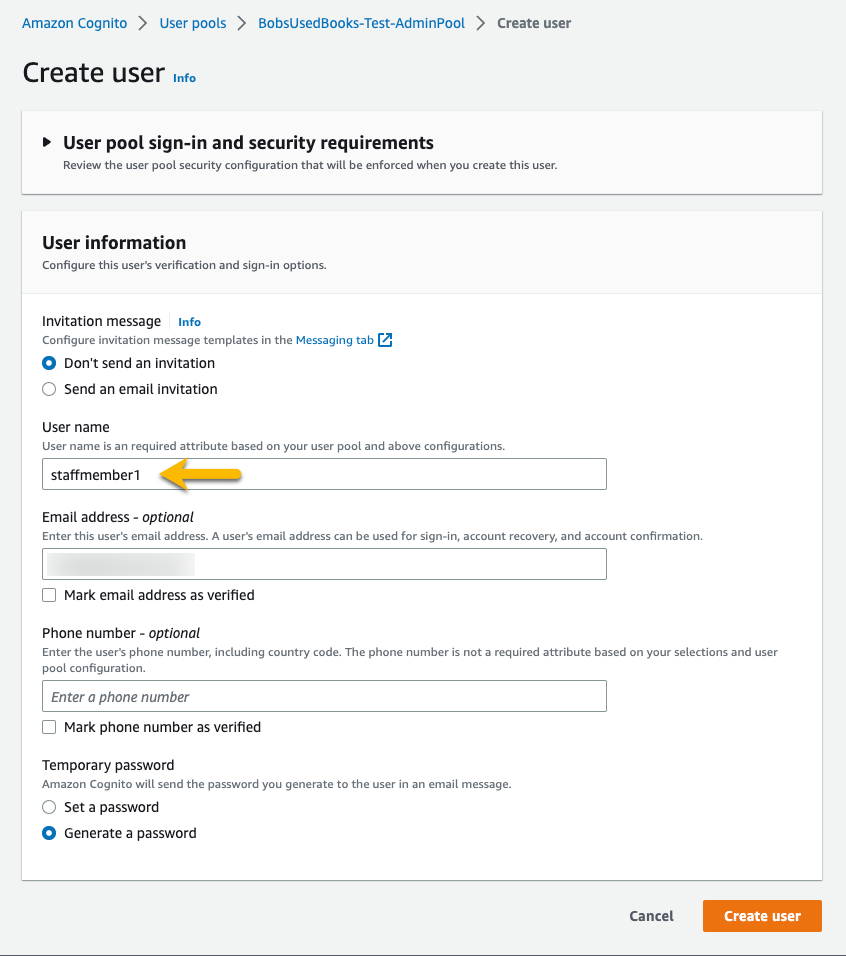
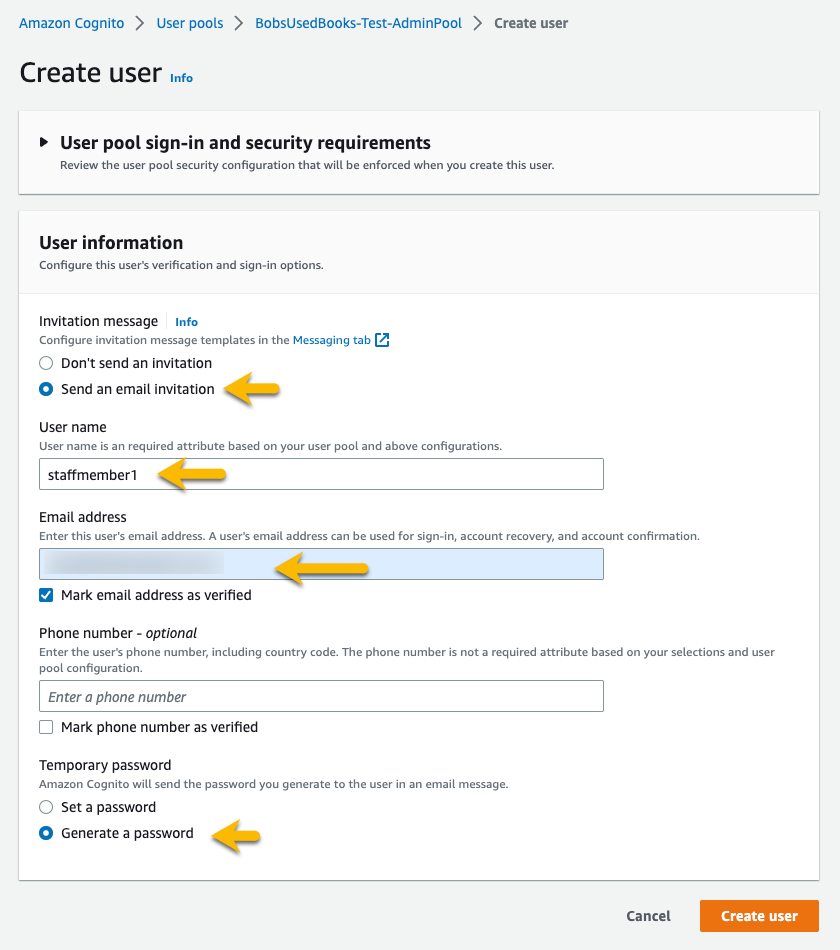
Expanded on sign-in instructions for admin site user

diff --git a/README.md b/README.md
@@ -68,9 +68,9 @@ Once the CDK deployment has completed:
 
 In integrated mode, both applications use Amazon Cognito user pools for user authentication.
 
-For the admin site you will need to create a user, representing bookstore staff, in the user pool for the admin site, as follows.
+For the admin site you will need to create a user, representing bookstore staff, in the user pool for the admin site. When creating the fictional staff user, you can elect to have a temporary password auto-generated for you, and an email sent to a valid email address with the password. Alternatively, you can choose to not have an email sent, and set the temporary password yourself. Either way, on first login to the admin application, you will be asked to change the temporary password.
 
-**Note:** screenshots in the text below are taken from the new Cognito console experience. If you are running the older experience you may encounter some differences, however the instructional flow holds true.
+**Note:** The instructions below set the Create User options to (a) have the password emailed to a real email address, and (b) have the password be auto-generated. The screenshots are taken from the new Cognito console experience. If you are running the older experience you may encounter some differences, however the instructional flow holds true.
 
 1. Sign into the AWS Management Console and proceed to the Amazon Cognito dashboard.
 
@@ -86,9 +86,11 @@ For the admin site you will need to create a user, representing bookstore staff,
 
 1. Select **Create user**
 
-1. Complete the User name and Email address fields. You can also mark the email as verified for this sample. You can set a password yourself, or have a temporary password generated which you will be prompted to change on login.
+1. Select the **Send an email invitation** option. Be sure to enter a real email address later! Alternatively, you can leave this option at "do not email" and set a temporary password yourself later on the form.
 
-    **Note:** As the password will be auto-generated and mailed to the user, **be sure to use a real email address to which you have access**!
+1. Complete the User name and Email address fields. You can also mark the email as verified for this sample. Whether you auto-generate the password (and have it emailed), or set a temporary password, you will be asked to change it on first login to the admin application.
+
+    **Note:** For auto-generated passwords, be sure to set the options to have it emailed to you and **be sure to use a real email address to which you have access**!
 
     ![Set user details](./media/cognito-admin-user.png)
 
@@ -102,7 +104,15 @@ For the admin site you will need to create a user, representing bookstore staff,
 
 1. Sign in using the username and password you just created.
 
-You can now access features in the admin application as if you were a staff member of the bookstore, for example to process customer orders, maintain stock, and more.
+    ![Initial sign-in](./media/admin_app_sign-in.png)
+
+1. Because you signed in with a temporary password you are prompted to update it.
+
+    ![Change password](./media/admin_app_sign-in_password_update.png)
+
+You are then signed into the application and placed at the _Orders_ view. You can now access features in the admin application as if you were a staff member of the bookstore, for example to process customer orders, maintain stock, and more.
+
+![Order view in Admin app](./media/admin_app_post_sign-in.png)
 
 **Note:** In the customer application, end-users register themselves so as to be more similar to a real-world shopping experience. The process starts using the _Log in_ option on the customer application's toolbar.
 
@@ -112,7 +122,7 @@ Although minimal resources are created to support the _Integrated_ launch profil
 
 To delete resources, either:
 
-1. Navigate to the CloudFormation dashboard in the AWS Management Console, select the stack, and delete it.
+1. Navigate to the CloudFormation dashboard in the AWS Management Console, select the _BobsUsedBooksIntegratedTest_ stack, and delete it.
 
 1. Or, in a command-line shell, set the working folder to be the _infrastructure/IntegratedTest_ folder of the repository and run the command `cdk destroy`. If you supplied `--profile` and/or `--region` parameters to the CDK when instantiating the stack, be sure to provide the same ones on deletion, otherwise the CDK command will error out complaining that the stack cannot be found.
 
